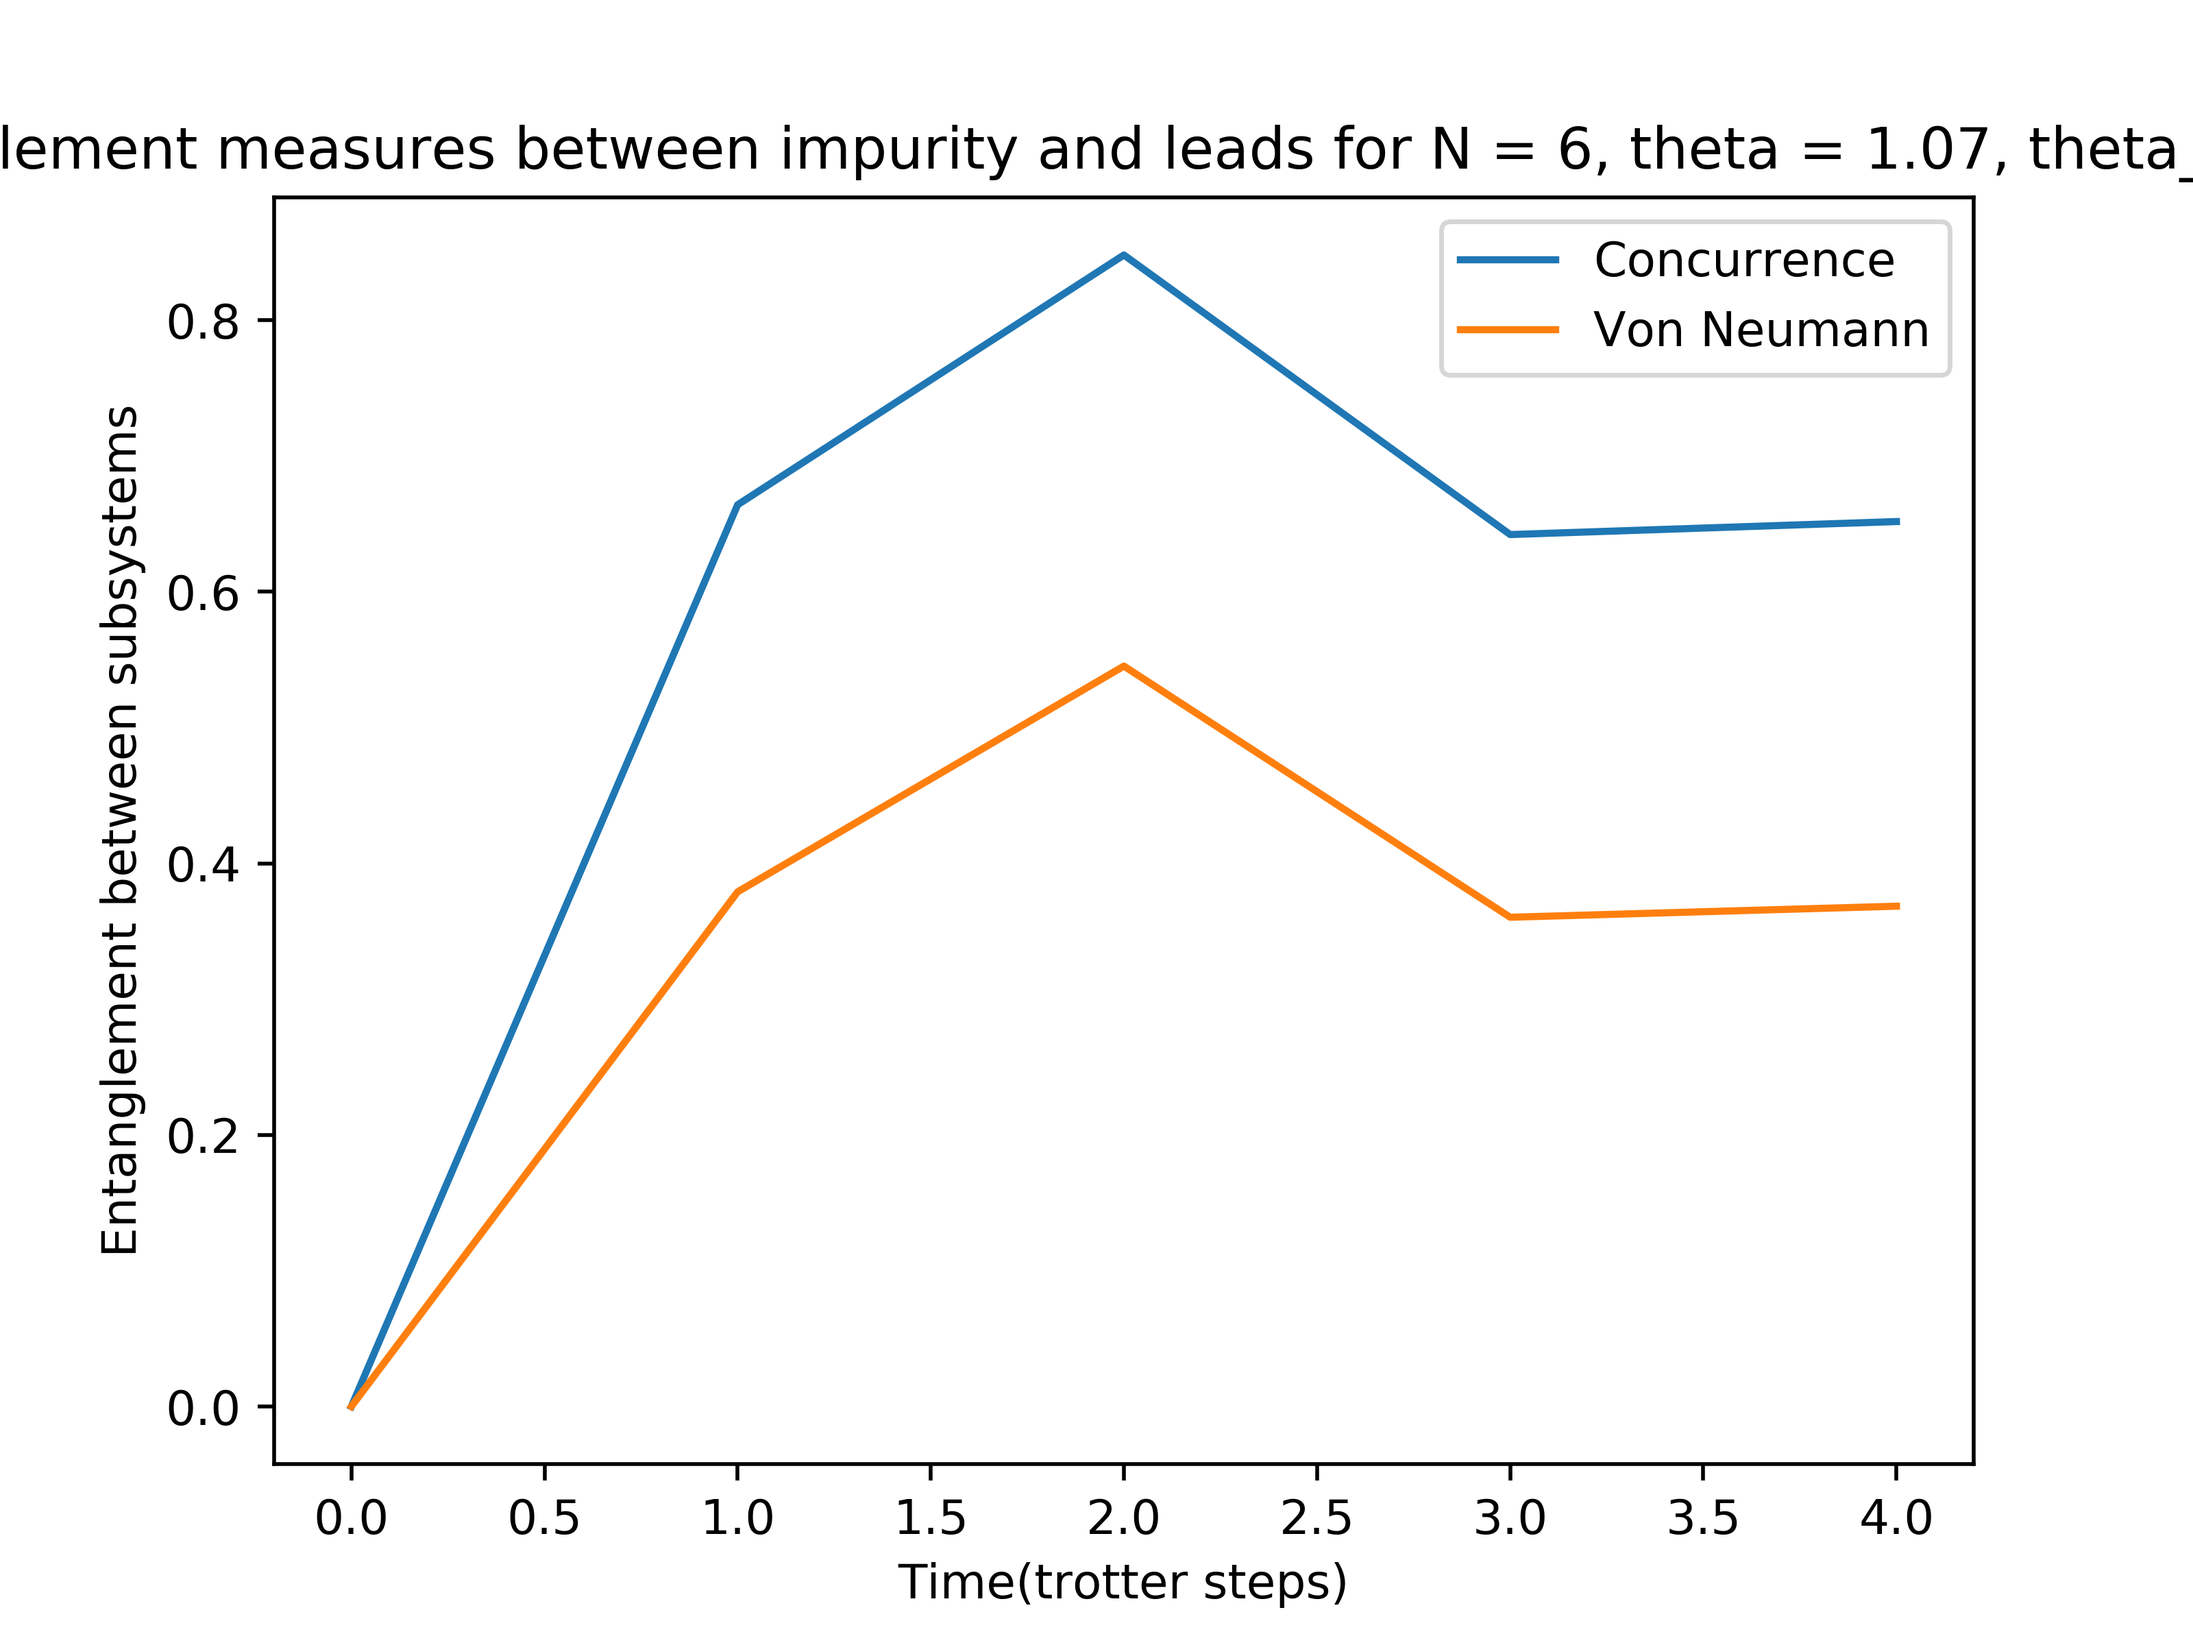
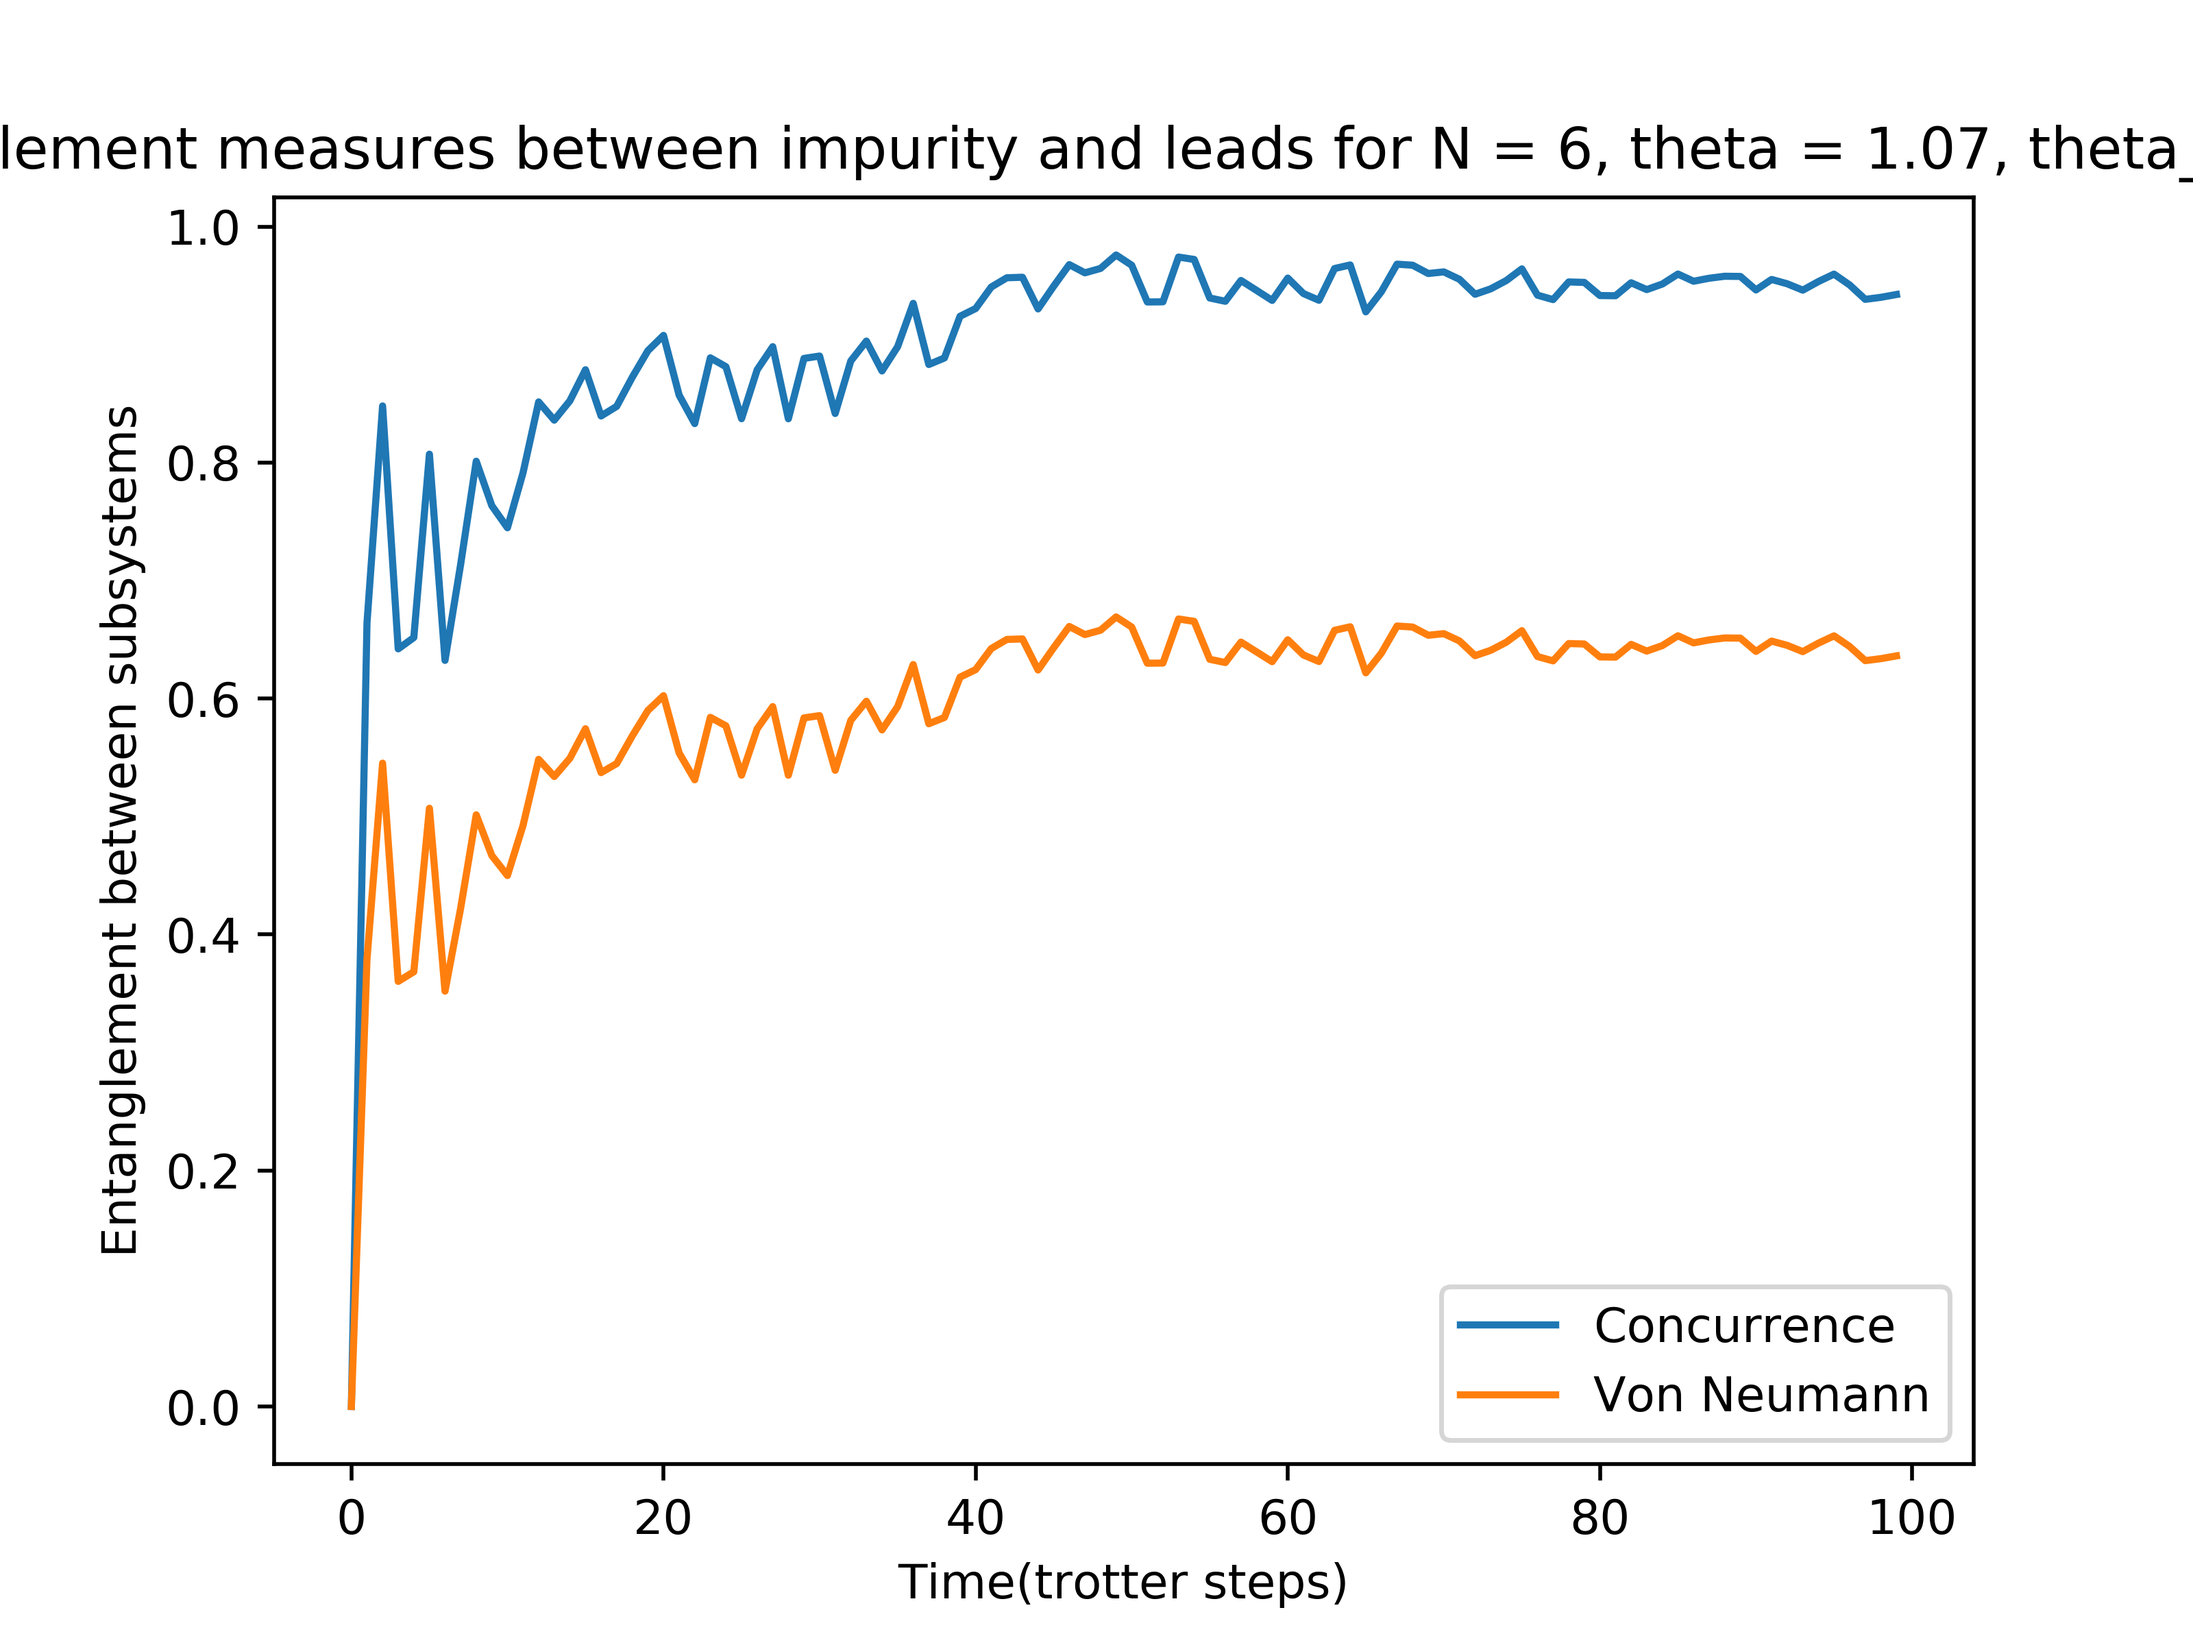
some data

diff --git a/scaled_codes/plotting.py b/scaled_codes/plotting.py
@@ -11,7 +11,7 @@ import matplotlib.pyplot as plt
 N_list = [6]
 theta_list = [1.07]  #pass the true values here
 thetak_list = [0.79]
-max_trotter_steps = 5
+max_trotter_steps = 100
 
 def plot_corr_space(pos,corr_super):   # For corr vs time
     vals = corr_super[pos-1]
